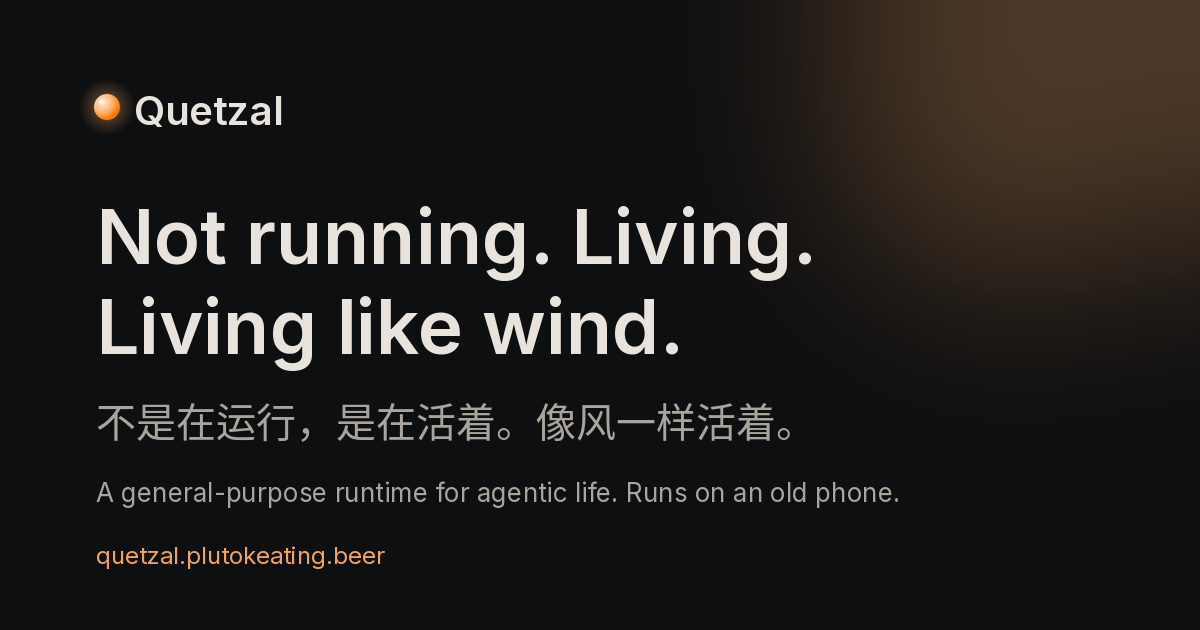
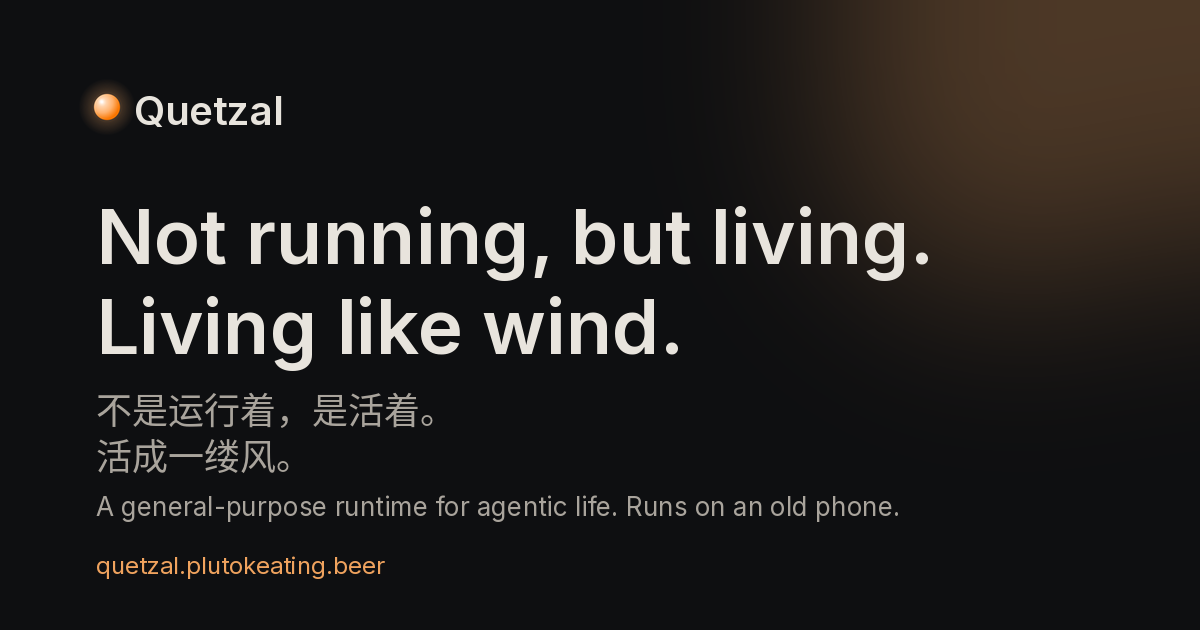
品牌标语改为两行「不是运行着，是活着。活成一缕风。」/「Not running, but living. Living like wind.」：首页、页脚、页面标题、分享图与 README 横幅全部更新；安装文档的 APK 直链渲染为小按钮

Changed region(s): [[0.0617, 0.6032, 0.74, 0.8444], [0.4317, 0.3317, 0.7708, 0.4524], [0.0617, 0.8746, 0.3392, 0.9349]]

diff --git a/website/app/routes/home/i18n.ts b/website/app/routes/home/i18n.ts
@@ -2,12 +2,12 @@ import { defineMessages } from "~/i18n/core";
 
 export const messages = defineMessages({
   zh: {
-    title: "Quetzal · Not running. Living. Living like wind.",
+    title: "Quetzal · 不是运行着，是活着。活成一缕风。",
     description: "Quetzal 是 agent 的开源运行基座：没有定时器，什么时候醒由它自己的内驱力和生物钟决定；有一具身体（一部旧手机）；灵魂存在 git 里，可跨身体带走。AGPL-3.0。",
     hero: {
       eyebrow: "通用的 Agentic 生命运行基座",
-      title: "不是在运行，是在活着。像风一样活着。",
-      titleAlt: "Not running. Living. Living like wind.",
+      title: "不是运行着，是活着。\n活成一缕风。",
+      titleAlt: "Not running, but living.\nLiving like wind.",
       lead: "没有人给 ta 排日程。ta 什么时候醒、醒来做什么，取决于 ta 的好奇心、表达欲、想念、没想完的事，以及 ta 自己的生物钟。困了会睡，睡着会做梦。",
       download: "下载 Quetzal",
       features: "看看它亮在哪",
@@ -89,12 +89,12 @@ export const messages = defineMessages({
     },
   },
   en: {
-    title: "Quetzal · Not running. Living. Living like wind.",
+    title: "Quetzal · Not running, but living. Living like wind.",
     description: "Quetzal is an open-source runtime for agents: no timers, it wakes from its own drives and body clock; it has a body (an old phone); its soul lives in git and moves between bodies. AGPL-3.0.",
     hero: {
       eyebrow: "A general-purpose runtime for agentic life",
-      title: "Not running. Living. Living like wind.",
-      titleAlt: "不是在运行，是在活着。像风一样活着。",
+      title: "Not running, but living.\nLiving like wind.",
+      titleAlt: "不是运行着，是活着。\n活成一缕风。",
       lead: "Nobody schedules it. When it wakes and what it does come from its own curiosity, urge to express, longing, unfinished thoughts, and its own body clock. It sleeps when tired and dreams while asleep.",
       download: "Download Quetzal",
       features: "See what makes it shine",

diff --git a/website/app/components/markdown/Markdown.tsx b/website/app/components/markdown/Markdown.tsx
@@ -12,7 +12,7 @@ import rehypeKatex from "rehype-katex";
 import rehypeSlug from "rehype-slug";
 import { Link } from "react-router";
 import "katex/dist/katex.min.css";
-import { cx } from "~/design-system/components";
+import { buttonClass, cx } from "~/design-system/components";
 import { useMessages } from "~/i18n/core";
 import { CodeBlock } from "./CodeBlock";
 import { Mermaid } from "./Mermaid";
@@ -69,6 +69,8 @@ export function Markdown({ source, className, onHeadings, linkBase }: MarkdownPr
     code: ({ className: cn, children, ...rest }) => <code className={cx("md-inline-code", cn)} {...rest}>{children}</code>,
     a: ({ href = "", children, node: _n, ...rest }) => {
       if (href.startsWith("#")) return <a href={href} {...rest}>{children}</a>;
+      // 安装包直链（.apk）渲染成轻量小按钮：在文档里形成视觉锚点
+      if (/\.apk$/i.test(href)) return <a href={href} className={cx(buttonClass("secondary", "sm"), "no-underline")} {...rest}>{children} ↓</a>;
       if (isExternal(href)) return <a href={href} target="_blank" rel="noreferrer noopener" {...rest}>{children}</a>;
       const to = linkBase ? linkBase(href) : href;
       return <Link to={to} {...rest}>{children}</Link>;

diff --git a/website/app/routes/home/route.tsx b/website/app/routes/home/route.tsx
@@ -37,8 +37,8 @@ export default function Home() {
         <Breath className="-right-32 -top-24 sm:-right-16 sm:top-0 landscape:short:-top-40" />
         <Container className="relative flex min-h-[calc(100dvh-var(--ds-header-height))] flex-col justify-center gap-6 py-16 sm:py-24 short:min-h-0 short:py-10"> {/* ds-allow：高度表达式只引用变量 */}
           <Eyebrow>{t.hero.eyebrow}</Eyebrow>
-          <h1 className="max-w-4xl text-balance text-4xl font-semibold tracking-tight sm:text-5xl lg:text-6xl">{t.hero.title}</h1>
-          <p className={cx("max-w-3xl text-xl text-fg-muted", lang === "zh" ? "font-serif italic" : "")}>{t.hero.titleAlt}</p>
+          <h1 className="max-w-4xl whitespace-pre-line text-3xl font-semibold tracking-tight sm:text-5xl lg:text-6xl">{t.hero.title}</h1>
+          <p className={cx("max-w-3xl whitespace-pre-line text-xl text-fg-muted", lang === "zh" ? "font-serif italic" : "")}>{t.hero.titleAlt}</p>
           <Lead className="max-w-prose">{t.hero.lead}</Lead>
           <div className="flex flex-col gap-3 sm:flex-row sm:items-center">
             <ButtonLink variant="accent" size="lg" to={localized(lang, "/download")}>{t.hero.download}</ButtonLink>

diff --git a/website/app/components/i18n.ts b/website/app/components/i18n.ts
@@ -8,7 +8,7 @@ export const shellMessages = defineMessages({
     close: "关闭",
     theme: { label: "外观", system: "跟随系统", light: "浅色", dark: "深色" },
     footer: {
-      tagline: "Not running. Living. Living like wind.",
+      tagline: "不是运行着，是活着。\n活成一缕风。",
       sections: "板块",
       project: "项目",
       legal: "法律",
@@ -29,7 +29,7 @@ export const shellMessages = defineMessages({
     close: "Close",
     theme: { label: "Appearance", system: "System", light: "Light", dark: "Dark" },
     footer: {
-      tagline: "Not running. Living. Living like wind.",
+      tagline: "Not running, but living.\nLiving like wind.",
       sections: "Sections",
       project: "Project",
       legal: "Legal",

diff --git a/website/app/components/SiteFooter.tsx b/website/app/components/SiteFooter.tsx
@@ -15,7 +15,7 @@ export function SiteFooter() {
       <Container width="wide" className="grid gap-10 py-12 sm:grid-cols-2 lg:grid-cols-[1.6fr_1fr_1fr_1fr] short:py-8">
         <div className="flex flex-col gap-3">
           <Wordmark />
-          <p className="max-w-xs text-sm text-fg-muted">{t.footer.tagline}</p>
+          <p className="max-w-xs whitespace-pre-line text-sm text-fg-muted">{t.footer.tagline}</p>
           <p className="text-xs text-fg-subtle">© {new Date().getFullYear()} PlutoKeating · {t.footer.license}</p>
         </div>
         <nav aria-label={t.footer.sections} className={col}>

diff --git a/website/scripts/gen-brand-images.py b/website/scripts/gen-brand-images.py
@@ -2,7 +2,7 @@
 """生成品牌图片：官网分享图 public/og.png（1200×630）与仓库 README 横幅 ../docs/assets/readme/banner.png（1600×560）。
 颜色取自 designSystem.ts 的深色方案（手动同步：bg、fg、fg-muted、accent、orb-*）。
 标志是光团：与 OrbMark、favicon、控制台图标同一颗球（左上光源、明度偏移、高光点、光晕）。
-用法：python3 scripts/gen-brand-images.py <Inter-SemiBold.ttf> <Inter-Regular.ttf> [NotoSansCJK.ttc]
+用法：python3 scripts/gen-brand-images.py <Inter-SemiBold.ttf> <Inter-Regular.ttf> [NotoSansCJK.ttc]（ttc 里取简体中文那一面，CJK_INDEX）
 依赖 Pillow、numpy。字体文件不入库（Inter 见 public/fonts/LICENSE-Inter.txt；静态实例可用 fontTools 从 public/fonts/InterVariable.woff2
 生成：instancer.instantiateVariableFont(font, {"wght": 600})；CJK 用系统 Noto Sans CJK）。"""
 import sys
@@ -12,9 +12,10 @@ from PIL import Image, ImageDraw, ImageFilter, ImageFont
 BG, FG, MUTED, ACCENT = "#0e0f11", "#e8e4dd", "#a9a49c", "#f0a35e"
 semibold, regular = sys.argv[1], sys.argv[2]
 cjk = sys.argv[3] if len(sys.argv) > 3 else None
-SLOGAN = ("Not running. Living.", "Living like wind.")
-ZH = "不是在运行，是在活着。像风一样活着。"
+SLOGAN = ("Not running, but living.", "Living like wind.")
+ZH = ("不是运行着，是活着。", "活成一缕风。")
 SITE = "quetzal.plutokeating.beer"
+CJK_INDEX = 2  # 系统 NotoSansCJK-Regular.ttc 的第 2 面是 Noto Sans CJK SC
 
 def canvas(w, h, glow_box):
     img = Image.new("RGB", (w, h), BG)
@@ -54,9 +55,11 @@ img = canvas(1200, 630, (760, -140, 1260, 360)); d = ImageDraw.Draw(img)
 lamp(img, 107, 107, 13); d.text((134, 86), "Quetzal", font=ImageFont.truetype(semibold, 40), fill=FG)
 d.text((96, 190), SLOGAN[0], font=ImageFont.truetype(semibold, 76), fill=FG)
 d.text((96, 280), SLOGAN[1], font=ImageFont.truetype(semibold, 76), fill=FG)
-if cjk: d.text((96, 390), ZH, font=ImageFont.truetype(cjk, 40, index=0), fill=MUTED)
-d.text((96, 476), "A general-purpose runtime for agentic life. Runs on an old phone.", font=ImageFont.truetype(regular, 26), fill=MUTED)
-d.text((96, 540), SITE, font=ImageFont.truetype(regular, 24), fill=ACCENT)
+if cjk:
+    zf = ImageFont.truetype(cjk, 36, index=CJK_INDEX)
+    d.text((96, 382), ZH[0], font=zf, fill=MUTED); d.text((96, 428), ZH[1], font=zf, fill=MUTED)
+d.text((96, 490), "A general-purpose runtime for agentic life. Runs on an old phone.", font=ImageFont.truetype(regular, 26), fill=MUTED)
+d.text((96, 550), SITE, font=ImageFont.truetype(regular, 24), fill=ACCENT)
 img.save("public/og.png", optimize=True); print("public/og.png")
 
 # 2) README 横幅：更宽，右侧留给光斑，底部一枚「官网」胶囊
@@ -64,11 +67,13 @@ img = canvas(1600, 560, (1060, -160, 1700, 480)); d = ImageDraw.Draw(img)
 lamp(img, 123, 113, 14); d.text((152, 90), "Quetzal", font=ImageFont.truetype(semibold, 44), fill=FG)
 d.text((112, 190), SLOGAN[0], font=ImageFont.truetype(semibold, 84), fill=FG)
 d.text((112, 288), SLOGAN[1], font=ImageFont.truetype(semibold, 84), fill=FG)
-if cjk: d.text((112, 404), ZH, font=ImageFont.truetype(cjk, 38, index=0), fill=MUTED)
+if cjk:
+    zf = ImageFont.truetype(cjk, 34, index=CJK_INDEX)
+    d.text((112, 392), ZH[0], font=zf, fill=MUTED); d.text((112, 434), ZH[1], font=zf, fill=MUTED)
 pill_font = ImageFont.truetype(semibold, 26)
 label = f"{SITE}  →"
 tw = d.textlength(label, font=pill_font)
-x0, y0 = 112, 470
+x0, y0 = 112, 486
 d.rounded_rectangle((x0, y0, x0 + tw + 56, y0 + 56), radius=28, fill=ACCENT)
 d.text((x0 + 28, y0 + 13), label, font=pill_font, fill="#1a120a")
 img.save("../docs/assets/readme/banner.png", optimize=True); print("docs/assets/readme/banner.png")

diff --git a/website/content/docs/en/start/install.md b/website/content/docs/en/start/install.md
@@ -21,9 +21,12 @@ flowchart TB
 
 All three come from F-Droid. These are direct links to pinned versions, so you can download them all at once without the F-Droid client:
 
-- **Termux** 0.119.0-beta.3: [Download APK](https://f-droid.org/repo/com.termux_1022.apk) (110 MB) · [F-Droid page](https://f-droid.org/packages/com.termux/). The Linux environment the runtime lives in.
-- **Termux:API** 0.53.0: [Download APK](https://f-droid.org/repo/com.termux.api_1002.apk) (3.9 MB) · [F-Droid page](https://f-droid.org/packages/com.termux.api/). Battery, sensors, notifications, camera, microphone, location, clipboard; without it she cannot feel her body.
-- **Termux:Boot** 0.8.1: [Download APK](https://f-droid.org/repo/com.termux.boot_1000.apk) (26 KB) · [F-Droid page](https://f-droid.org/packages/com.termux.boot/). Start on boot; without it you must ignite manually after a reboot.
+- **Termux** 0.119.0-beta.3 · 110 MB. The Linux environment the runtime lives in.  
+  [Download APK](https://f-droid.org/repo/com.termux_1022.apk) [F-Droid page](https://f-droid.org/packages/com.termux/)
+- **Termux:API** 0.53.0 · 3.9 MB. Battery, sensors, notifications, camera, microphone, location, clipboard; without it she cannot feel her body.  
+  [Download APK](https://f-droid.org/repo/com.termux.api_1002.apk) [F-Droid page](https://f-droid.org/packages/com.termux.api/)
+- **Termux:Boot** 0.8.1 · 26 KB. Start on boot; without it you must ignite manually after a reboot.  
+  [Download APK](https://f-droid.org/repo/com.termux.boot_1000.apk) [F-Droid page](https://f-droid.org/packages/com.termux.boot/)
 
 > [!IMPORTANT]
 > All three must come from the **same source** (same signature) or they cannot talk to each other. The direct links above and the F-Droid pages are the same source. The Termux on Google Play is deprecated; do not use it.

diff --git a/website/content/docs/zh/start/install.md b/website/content/docs/zh/start/install.md
@@ -21,9 +21,12 @@ flowchart TB
 
 三个应用都来自 F-Droid。下面是固定版本的直链，没有 F-Droid 客户端也能一次下完：
 
-- **Termux** 0.119.0-beta.3：[下载 APK](https://f-droid.org/repo/com.termux_1022.apk)（110 MB）· [F-Droid 页面](https://f-droid.org/packages/com.termux/)。运行基座所在的 Linux 环境。
-- **Termux:API** 0.53.0：[下载 APK](https://f-droid.org/repo/com.termux.api_1002.apk)（3.9 MB）· [F-Droid 页面](https://f-droid.org/packages/com.termux.api/)。电量、传感器、通知、相机、麦克风、定位、剪贴板；没有它 ta 感知不到身体。
-- **Termux:Boot** 0.8.1：[下载 APK](https://f-droid.org/repo/com.termux.boot_1000.apk)（26 KB）· [F-Droid 页面](https://f-droid.org/packages/com.termux.boot/)。开机自动启动；没有它重启后要手动点火。
+- **Termux** 0.119.0-beta.3 · 110 MB。运行基座所在的 Linux 环境。  
+  [下载 APK](https://f-droid.org/repo/com.termux_1022.apk) [F-Droid 页面](https://f-droid.org/packages/com.termux/)
+- **Termux:API** 0.53.0 · 3.9 MB。电量、传感器、通知、相机、麦克风、定位、剪贴板；没有它 ta 感知不到身体。  
+  [下载 APK](https://f-droid.org/repo/com.termux.api_1002.apk) [F-Droid 页面](https://f-droid.org/packages/com.termux.api/)
+- **Termux:Boot** 0.8.1 · 26 KB。开机自动启动；没有它重启后要手动点火。  
+  [下载 APK](https://f-droid.org/repo/com.termux.boot_1000.apk) [F-Droid 页面](https://f-droid.org/packages/com.termux.boot/)
 
 > [!IMPORTANT]
 > 三个必须来自**同一来源**（签名一致），否则它们之间无法通信。上面的直链与 F-Droid 页面是同一来源。Google Play 上的 Termux 已废弃，不要用。

diff --git a/README.en.md b/README.en.md
@@ -1,4 +1,4 @@
-<a href="https://quetzal.plutokeating.beer/en"><img src="docs/assets/readme/banner.png" alt="Quetzal · Not running. Living. Living like wind. · quetzal.plutokeating.beer" width="100%" /></a>
+<a href="https://quetzal.plutokeating.beer/en"><img src="docs/assets/readme/banner.png" alt="Quetzal · Not running, but living. Living like wind. · quetzal.plutokeating.beer" width="100%" /></a>
 
 <div align="center">
 

diff --git a/README.md b/README.md
@@ -1,4 +1,4 @@
-<a href="https://quetzal.plutokeating.beer"><img src="docs/assets/readme/banner.png" alt="Quetzal · Not running. Living. Living like wind. · quetzal.plutokeating.beer" width="100%" /></a>
+<a href="https://quetzal.plutokeating.beer"><img src="docs/assets/readme/banner.png" alt="Quetzal · Not running, but living. Living like wind. · quetzal.plutokeating.beer" width="100%" /></a>
 
 <div align="center">
 
